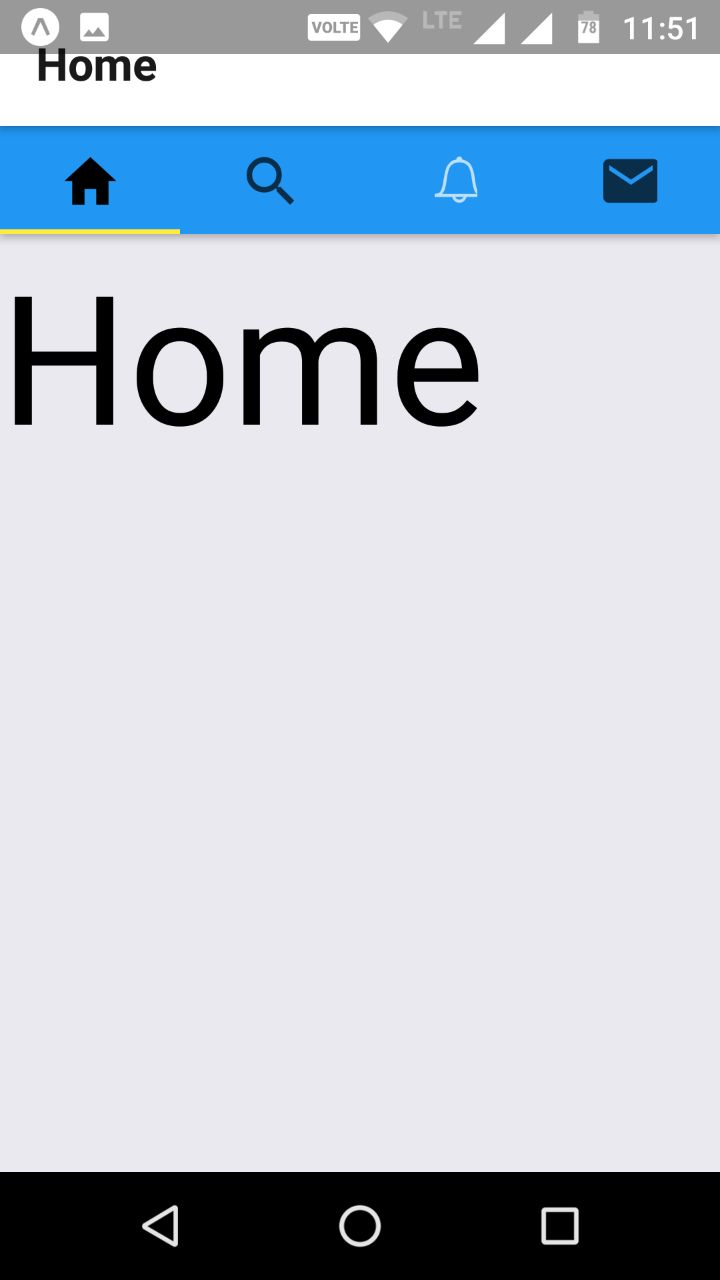
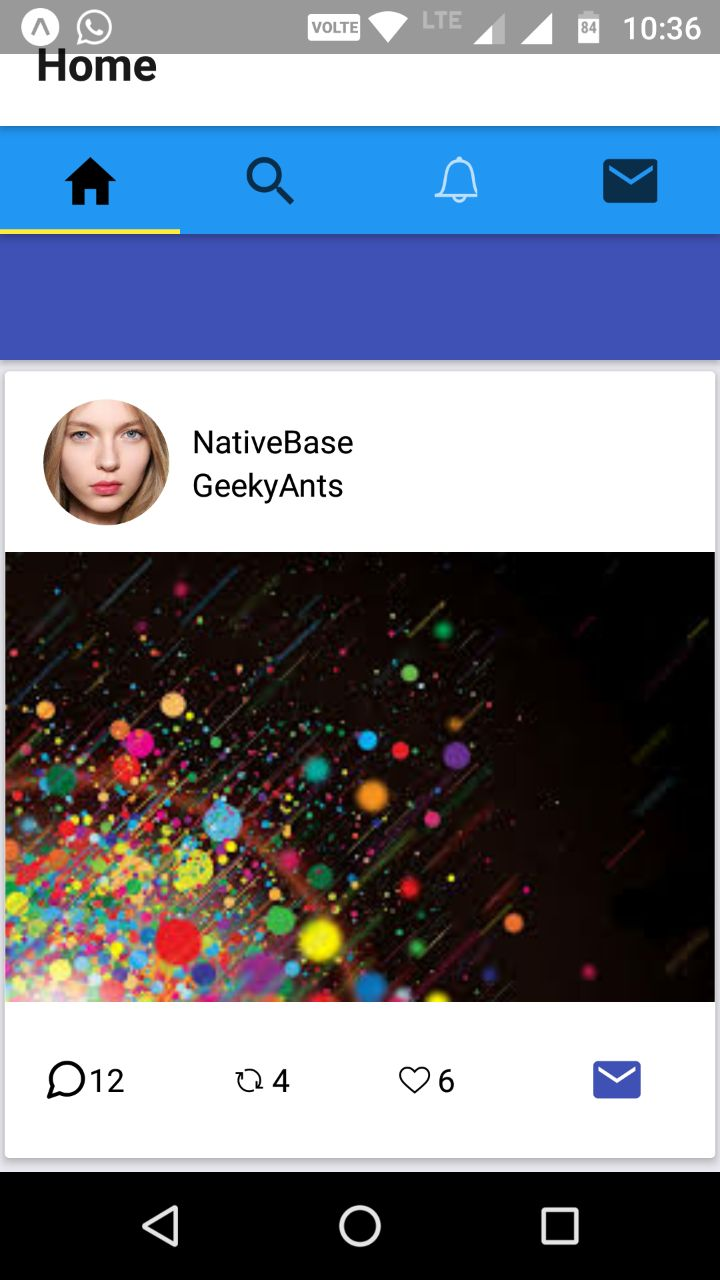
timeline cards

diff --git a/Home.js b/Home.js
@@ -1,6 +1,7 @@
 import React from 'react';
 import { AppRegistry, ScrollView, Image, Text} from 'react-native';
-import { Button,  Icon, Footer, FooterTab } from "native-base";
+import { Button,  Icon, Footer, FooterTab, Header, Left,Right,Content,Card,CardItem ,Container,Body,Thumbnail} from "native-base";
+import { EvilIcons,MaterialIcons,Ionicons,MaterialCommunityIcons, Feather } from '@expo/vector-icons';
 export default class Home extends React.Component {
   static navigationOptions = {
     title: 'Home',
@@ -13,10 +14,139 @@ export default class Home extends React.Component {
   render() {
       const { navigate } = this.props.navigation
       return (
-        <ScrollView>
 
-          <Text style={{fontSize:80}}>Home</Text>
+
+        <Container>
+      <Header />
+      <Content>
+      <ScrollView>
+        <Card>
+          <CardItem>
+            <Left>
+              <Thumbnail source={require('./face1.jpg')} />
+              <Body>
+                <Text>NativeBase</Text>
+                <Text note>GeekyAnts</Text>
+              </Body>
+            </Left>
+          </CardItem>
+          <CardItem cardBody>
+            <Image source={require('./card1.jpg')} style={{height: 200, width: null, flex: 1}}/>
+          </CardItem>
+          <CardItem style={{flex: 1, flexDirection: 'row', justifyContent: 'space-between',}}>
+
+              <Button transparent>
+              <Feather
+                 name="message-circle"
+                 size={20}
+                />
+                <Text>12</Text>
+              </Button>
+
+
+              <Button transparent>
+                <EvilIcons name="refresh"  size={20} />
+                <Text>4</Text>
+              </Button>
+              <Button transparent>
+                <EvilIcons name="heart"  size={20} />
+                <Text>6</Text>
+              </Button>
+
+
+            <Button transparent>
+              <Icon active name="mail" />
+
+            </Button>
+
+          </CardItem>
+        </Card>
+        <Card>
+          <CardItem>
+            <Left>
+              <Thumbnail source={require('./face2.jpg')} />
+              <Body>
+                <Text>NativeBase</Text>
+                <Text note>GeekyAnts</Text>
+              </Body>
+            </Left>
+          </CardItem>
+          <CardItem cardBody>
+            <Image source={require('./card2.jpeg')} style={{height: 200, width: null, flex: 1}}/>
+          </CardItem>
+          <CardItem style={{flex: 1, flexDirection: 'row', justifyContent: 'space-between',}}>
+
+              <Button transparent>
+              <Feather
+                 name="message-circle"
+                 size={20}
+                />
+                <Text>13</Text>
+              </Button>
+
+
+              <Button transparent>
+                <EvilIcons name="refresh"  size={20} />
+                <Text>7</Text>
+              </Button>
+              <Button transparent>
+                <EvilIcons name="heart"  size={20} />
+                <Text>9</Text>
+              </Button>
+
+
+            <Button transparent>
+              <Icon active name="mail" />
+
+            </Button>
+
+          </CardItem>
+        </Card>
+        <Card>
+          <CardItem>
+            <Left>
+              <Thumbnail source={require('./face3.jpg')} />
+              <Body>
+                <Text>NativeBase</Text>
+                <Text note>GeekyAnts</Text>
+              </Body>
+            </Left>
+          </CardItem>
+          <CardItem cardBody>
+            <Image source={require('./card3.jpg')} style={{height: 200, width: null, flex: 1}}/>
+          </CardItem>
+          <CardItem style={{flex: 1, flexDirection: 'row', justifyContent: 'space-between',}}>
+
+              <Button transparent>
+              <Feather
+                 name="message-circle"
+                 size={20}
+                />
+                <Text>2</Text>
+              </Button>
+
+
+              <Button transparent>
+                <EvilIcons name="refresh"  size={20} />
+                <Text>10</Text>
+              </Button>
+              <Button transparent>
+                <EvilIcons name="heart"  size={20} />
+                <Text>5</Text>
+              </Button>
+
+
+            <Button transparent>
+              <Icon active name="mail" />
+
+            </Button>
+
+          </CardItem>
+        </Card>
         </ScrollView>
+      </Content>
+    </Container>
+
     );
   }
 }
